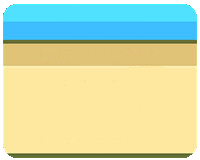
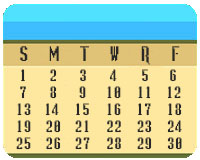
improved world_map, calendar

diff --git a/wuncemoor.py b/wuncemoor.py
@@ -1,6 +1,5 @@
 import tcod as libtcod
 from fov_function import initialize_fov, recompute_fov
-from ECS.entity import get_blocking_entities_at_location
 from death_functions import kill_monster, kill_player
 from enums.game_states import GameStates, EncounterStates, LootStates, MenuStates
 from game_messages import Message
@@ -14,7 +13,7 @@ from handlers.game_handler import GameHandler
 from random_utils import encounter_check
 from render_functions import render_all
 import sys
-import pygame
+import pygame as py
 
 
 # Main menu
@@ -22,13 +21,13 @@ def main():
 
     (screen_size, cscreen_size, mscreen_size, game_title) = START
 
-    pygame.init()
+    py.init()
 
-    screen = pygame.display.set_mode(screen_size)
-    message_surface = pygame.Surface(mscreen_size)
-    camera_surface = pygame.Surface(cscreen_size)
+    screen = py.display.set_mode(screen_size)
+    message_surface = py.Surface(mscreen_size)
+    camera_surface = py.Surface(cscreen_size)
 
-    pygame.display.set_caption(game_title)
+    py.display.set_caption(game_title)
 
     player = None
     dungeons = {}
@@ -43,11 +42,11 @@ def main():
 
     while running:
         title_screen(screen, current_option)
-        for event in pygame.event.get():
-            if event.type == pygame.QUIT:
-                pygame.quit()
+        for event in py.event.get():
+            if event.type == py.QUIT:
+                py.quit()
                 sys.exit()
-            if event.type == pygame.KEYDOWN:
+            if event.type == py.KEYDOWN:
 
                 if show_main_menu:
 
@@ -73,7 +72,7 @@ def main():
                             message_log, party, journal = load_game()
                             show_main_menu = False
                         elif current_option == 2:
-                            pygame.quit()
+                            py.quit()
                             sys.exit()
                 else:
                     screen.fill(BLACK)
@@ -81,7 +80,7 @@ def main():
                     game = GameHandler(screen)
                     play_game(player, dungeons, entities, structures, transitions, noncombatants, game_map, world_map, camera,
                               message_log, party, journal, game, camera_surface, message_surface)
-        pygame.display.flip()
+        py.display.flip()
 
 
 def play_game(player, dungeons, entities, structures, transitions, noncombatants, game_map, world_map, camera,
@@ -96,15 +95,16 @@ def play_game(player, dungeons, entities, structures, transitions, noncombatants
     menu_handler = MenuHandler()
     time_handler = TimeHandler()
 
+
     while True:
-        for event in pygame.event.get():
+        for event in py.event.get():
             player_turn_results = []
             encounter_results = []
             loot_results = []
-            if event.type == pygame.QUIT:
-                pygame.quit()
+            if event.type == py.QUIT:
+                py.quit()
                 sys.exit()
-            if event.type == pygame.KEYDOWN:
+            if event.type == py.KEYDOWN:
 
                 action = handle_keys(event.key, game.state)
 
@@ -128,30 +128,21 @@ def play_game(player, dungeons, entities, structures, transitions, noncombatants
                     destination_y = player.y + dy
 
                     if not game_map.is_blocked(destination_x, destination_y):
-                        target = get_blocking_entities_at_location(entities, destination_x, destination_y)
 
-                        if target:
-                            if target.combatant:
-                                attack_results = player.combatant.attack(target)
-                                player_turn_results.extend(attack_results)
-                                game.state = GameStates.ENEMY_TURN
-                        else:
-                            player.move(dx, dy)
-                            camera.refocus(player.x, player.y, game_map)
+                        player.move(dx, dy)
+                        camera.refocus(player.x, player.y, game_map)
 
-                            fov_recompute = True
+                        fov_recompute = True
 
-                            game.state = GameStates.ENEMY_TURN
+                        if game_map.dangerous:
+                            encountering = encounter_check()
+                            if encountering:
+                                tile = game_map.tiles[destination_x][destination_y]
 
-                            if game_map.dangerous:
-                                encountering = encounter_check()
-                                if encountering:
-                                    tile = game_map.tiles[destination_x][destination_y]
+                                options = ['FIGHT', 'ITEM', 'RUN']
+                                encounter = game_map.current_map.get_encounter(tile, options)
 
-                                    options = ['FIGHT', 'ITEM', 'RUN']
-                                    encounter = game_map.current_map.get_encounter(tile, options)
-
-                                    game.state = GameStates.ENCOUNTER
+                                game.state = GameStates.ENCOUNTER
 
                 if interact and game.state == GameStates.PLAYERS_TURN:
                     nothing = True
@@ -368,7 +359,7 @@ def play_game(player, dungeons, entities, structures, transitions, noncombatants
                     else:
                         save_game(player, dungeons, entities, game_map, message_log, game.state)
 
-                        pygame.quit()
+                        py.quit()
                         sys.exit()
 
                 for player_turn_result in player_turn_results:
@@ -396,18 +387,13 @@ def play_game(player, dungeons, entities, structures, transitions, noncombatants
                     if item_added:
                         entities.remove(item_added)
 
-                        game.state = GameStates.ENEMY_TURN
 
-                    if item_consumed:
-                        game.state = GameStates.ENEMY_TURN
 
                     if item_dropped:
                         game_map.current_map.map_entities.append(item_dropped)
                         entities = [player]
                         entities.extend(game_map.current_map.map_entities)
 
-                        game.state = GameStates.ENEMY_TURN
-                        game.state = GameStates.ENEMY_TURN
 
                     if equip:
                         equip_results = player.combatant.equipment.toggle_equip(equip)
@@ -421,7 +407,6 @@ def play_game(player, dungeons, entities, structures, transitions, noncombatants
                             if dequipped:
                                 message_log.add_message(Message('You dequipped the {0}!'.format(dequipped.name)))
 
-                        game.state = GameStates.ENEMY_TURN
 
                     if targeting:
                         game.state = GameStates.TARGETING
@@ -517,7 +502,7 @@ def play_game(player, dungeons, entities, structures, transitions, noncombatants
                     elif toggle == 'left':
                         loot.state = LootStates.SIFTING
 
-            if event.type == pygame.MOUSEBUTTONDOWN:
+            if event.type == py.MOUSEBUTTONDOWN:
 
                 mouse_action = handle_mouse((event.pos, event.button))
 
@@ -541,11 +526,11 @@ def play_game(player, dungeons, entities, structures, transitions, noncombatants
 
         render_all(game.screen, camera_surface, message_surface, entities, player, structures, transitions,
                    noncombatants, game_map, world_map, camera, fov_map, fov_recompute, message_log,
-                        game.state, menu_handler, encounter, loot, dialogue_handler)
+                        game.state, menu_handler, time_handler, encounter, loot, dialogue_handler)
 
         fov_recompute = False
 
-        pygame.display.flip()
+        py.display.flip()
 
         if encounter:
             if encounter.state == EncounterStates.ENEMY_TURN:
@@ -569,34 +554,6 @@ def play_game(player, dungeons, entities, structures, transitions, noncombatants
                         if game.state == GameStates.PLAYER_DEAD:
                             break
                     encounter.state = EncounterStates.THINKING
-
-        if game.state == GameStates.ENEMY_TURN:
-            for entity in entities:
-                if entity.combatant:
-                    if entity.combatant.ai:
-                        enemy_turn_results = entity.combatant.ai.take_turn(player, fov_map, game_map, entities)
-
-                        for enemy_turn_result in enemy_turn_results:
-                            message = enemy_turn_result.get('message')
-                            dead_entity = enemy_turn_result.get('dead')
-
-                            if message:
-                                message_log.add_message(message)
-
-                            if dead_entity:
-                                if dead_entity == player:
-                                    message, game.state = kill_player(dead_entity)
-                                else:
-                                    message = kill_monster(dead_entity)
-
-                                message_log.add_message(message)
-
-                                if game.state == GameStates.PLAYER_DEAD:
-                                    break
-                if game.state == GameStates.PLAYER_DEAD:
-                    break
-            else:
-                game.state = GameStates.PLAYERS_TURN
 
 
 if __name__ == '__main__':

diff --git a/maps/world_map/biome_functions.py b/maps/world_map/biome_functions.py
@@ -10,11 +10,11 @@ def apply_simplex_biomes(map):
     equator = height / 2
 
     heightmesh = OpenSimplex(seed=randint(1, 1000000))
-    heightmesh2 = OpenSimplex(seed=randint(1, 1000000))
-    heightmesh3 = OpenSimplex(seed=randint(1, 1000000))
+    # heightmesh2 = OpenSimplex(seed=randint(1, 1000000))
+    # heightmesh3 = OpenSimplex(seed=randint(1, 1000000))
     moistmesh = OpenSimplex(seed=randint(1, 1000000))
-    moistmesh2 = OpenSimplex(seed=randint(1, 1000000))
-    moistmesh3 = OpenSimplex(seed=randint(1, 1000000))
+    # moistmesh2 = OpenSimplex(seed=randint(1, 1000000))
+    # moistmesh3 = OpenSimplex(seed=randint(1, 1000000))
 
     for j in range(height):
 
@@ -33,13 +33,15 @@ def apply_simplex_biomes(map):
                 octavey = i * scale * freq
 
                 hvalue = heightmesh.noise2d(x=octavex, y=octavey)
-                hvalue2 = heightmesh2.noise2d(x=octavex, y=octavey)
-                hvalue3 = heightmesh3.noise2d(x=octavex, y=octavey)
+                # hvalue2 = heightmesh2.noise2d(x=octavex, y=octavey)
+                # hvalue3 = heightmesh3.noise2d(x=octavex, y=octavey)
                 mvalue = moistmesh.noise2d(x=octavex, y=octavey)
-                mvalue2 = moistmesh2.noise2d(x=octavex, y=octavey)
-                mvalue3 = moistmesh3.noise2d(x=octavex, y=octavey)
-                altitude += avg([hvalue, hvalue2, hvalue3]) * amp
-                moist += avg([mvalue, mvalue2, mvalue3]) * amp
+                # mvalue2 = moistmesh2.noise2d(x=octavex, y=octavey)
+                # mvalue3 = moistmesh3.noise2d(x=octavex, y=octavey)
+                # altitude += avg([hvalue, hvalue2, hvalue3]) * amp
+                # moist += avg([mvalue, mvalue2, mvalue3]) * amp
+                altitude += hvalue * amp
+                moist += mvalue * amp
 
                 amp *= persist
                 freq *= lacuna

diff --git a/render_functions.py b/render_functions.py
@@ -24,7 +24,7 @@ def get_names_under_mouse(entities, fov_map):
 
 def render_all(screen, camera_surface, message_surface, entities, player, structures, transitions,
                noncombatants, game_map, world_map, camera, fov_map, fov_recompute, message_log,
-               game_state, menu_handler, encounter, loot, dialogue):
+               game_state, menu_handler, time_handler, encounter, loot, dialogue):
     (width, height) = TILES_ON_SCREEN
 
 
@@ -63,10 +63,10 @@ def render_all(screen, camera_surface, message_surface, entities, player, struct
     resource_hud = player_resource_display(player)
     screen.blit(resource_hud, (0 - 10, 540 + 40))
 
-    calendar = display_calendar()
+    calendar = display_calendar(time_handler.month, time_handler.day)
 
     if game_state == GameStates.PLAYERS_TURN:
-        screen.blit(calendar, (1040, 40))
+        screen.blit(calendar, (screen.get_width() - calendar.get_width(), screen.get_height() - calendar.get_height()))
 
 
     if game_state in (GameStates.SHOW_INVENTORY, GameStates.DROP_INVENTORY):

diff --git a/screens/calendar.py b/screens/calendar.py
@@ -1,9 +1,33 @@
-from screens.gui_tools import get_surface
+from screens.gui_tools import get_surface, get_text_surface, align_and_blit
 from config.image_objects import CALENDAR_BG
+from config.constants import BLACK
 
 
-def display_calendar():
+def display_calendar(month, day):
 
     surf = get_surface(CALENDAR_BG)
 
+    display_month(surf, month)
+
     return surf
+
+def display_month(surf, month):
+
+    dict = {
+        1: 'January',
+        2: 'February',
+        3: 'March',
+        4: 'April',
+        5: 'May',
+        6: 'June',
+        7: 'july',
+        8: 'August',
+        9: 'September',
+        10: 'October',
+        11: 'November',
+        12: 'December',
+
+    }
+
+    month = get_text_surface(dict.get(month), fontsize=32, color=BLACK)
+    align_and_blit(surf, month, x_ratio=0.5, y_ratio=0, x_adjust=0, y_adjust=20)

diff --git a/maps/starting_map.py b/maps/starting_map.py
@@ -16,6 +16,7 @@ from random import randint
 from dialogue.get_dialogue import get_samwise_dialogue
 from config.constants import WORLD_MAP, START_TOWN, CAVE
 from config.image_objects import ALPHA, BUNDLE_SAMWISE
+import time
 
 
 def get_town(node):
@@ -88,7 +89,9 @@ def get_world_map():
     (width, height) = WORLD_MAP
 
     map = get_map(width, height, variant='world_map', dangerous=True)
+    start_time = time.time()
     apply_simplex_biomes(map)
+    print(time.time() - start_time)
     apply_mode(map)
     nodes = get_core_plot_nodes(width, height)
     for node in nodes:

diff --git a/enums/game_states.py b/enums/game_states.py
@@ -3,7 +3,6 @@ from enum import Enum
 
 class GameStates(Enum):
     PLAYERS_TURN = 1
-    ENEMY_TURN = 2
     PLAYER_DEAD = 3
     SHOW_INVENTORY = 4
     DROP_INVENTORY = 5
